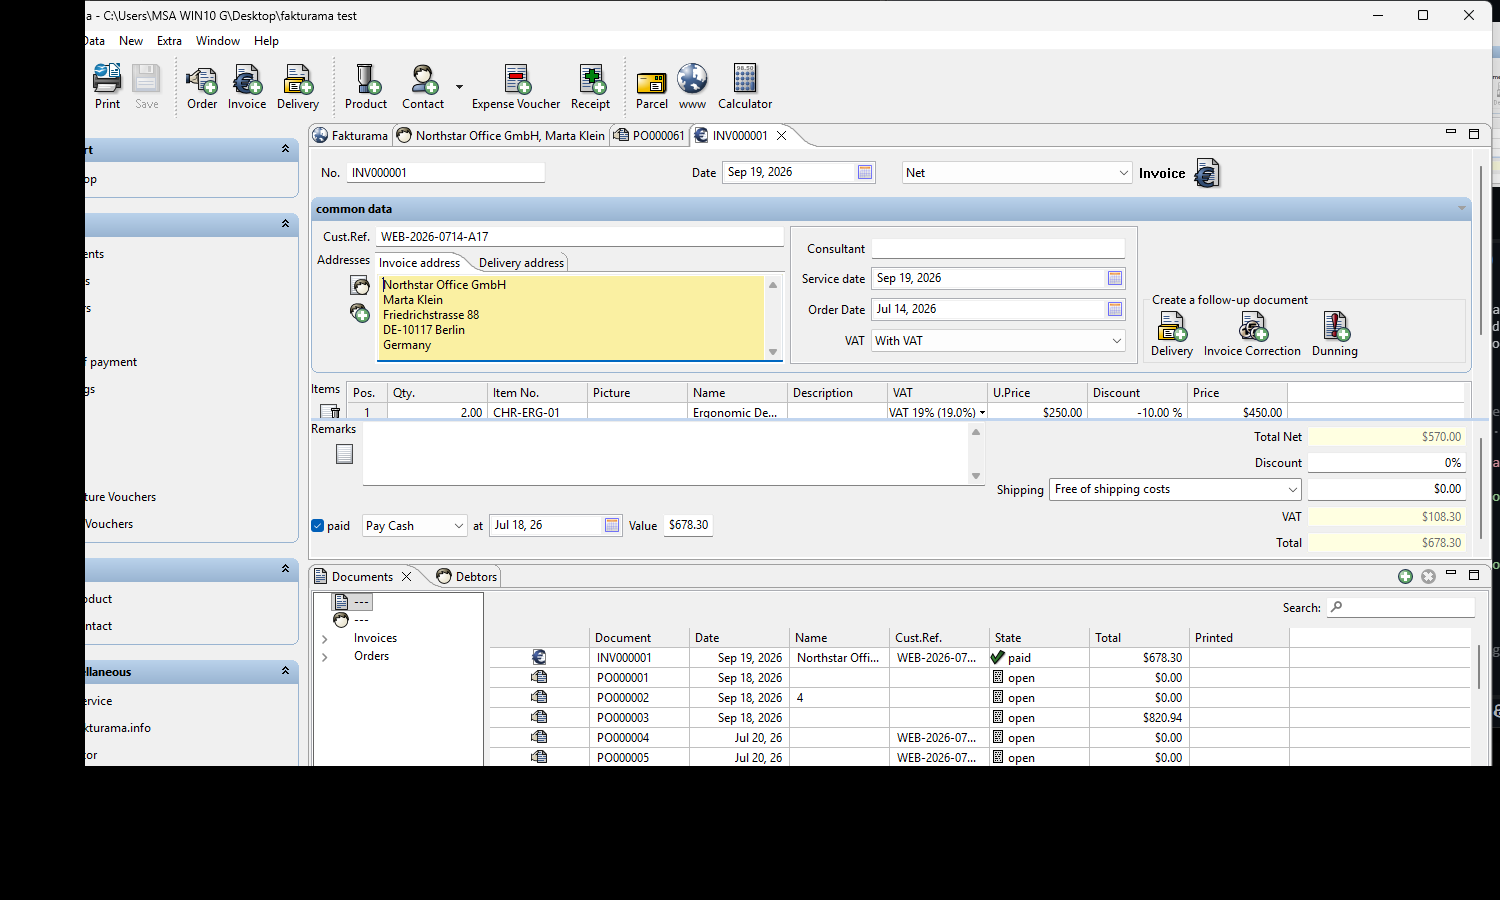
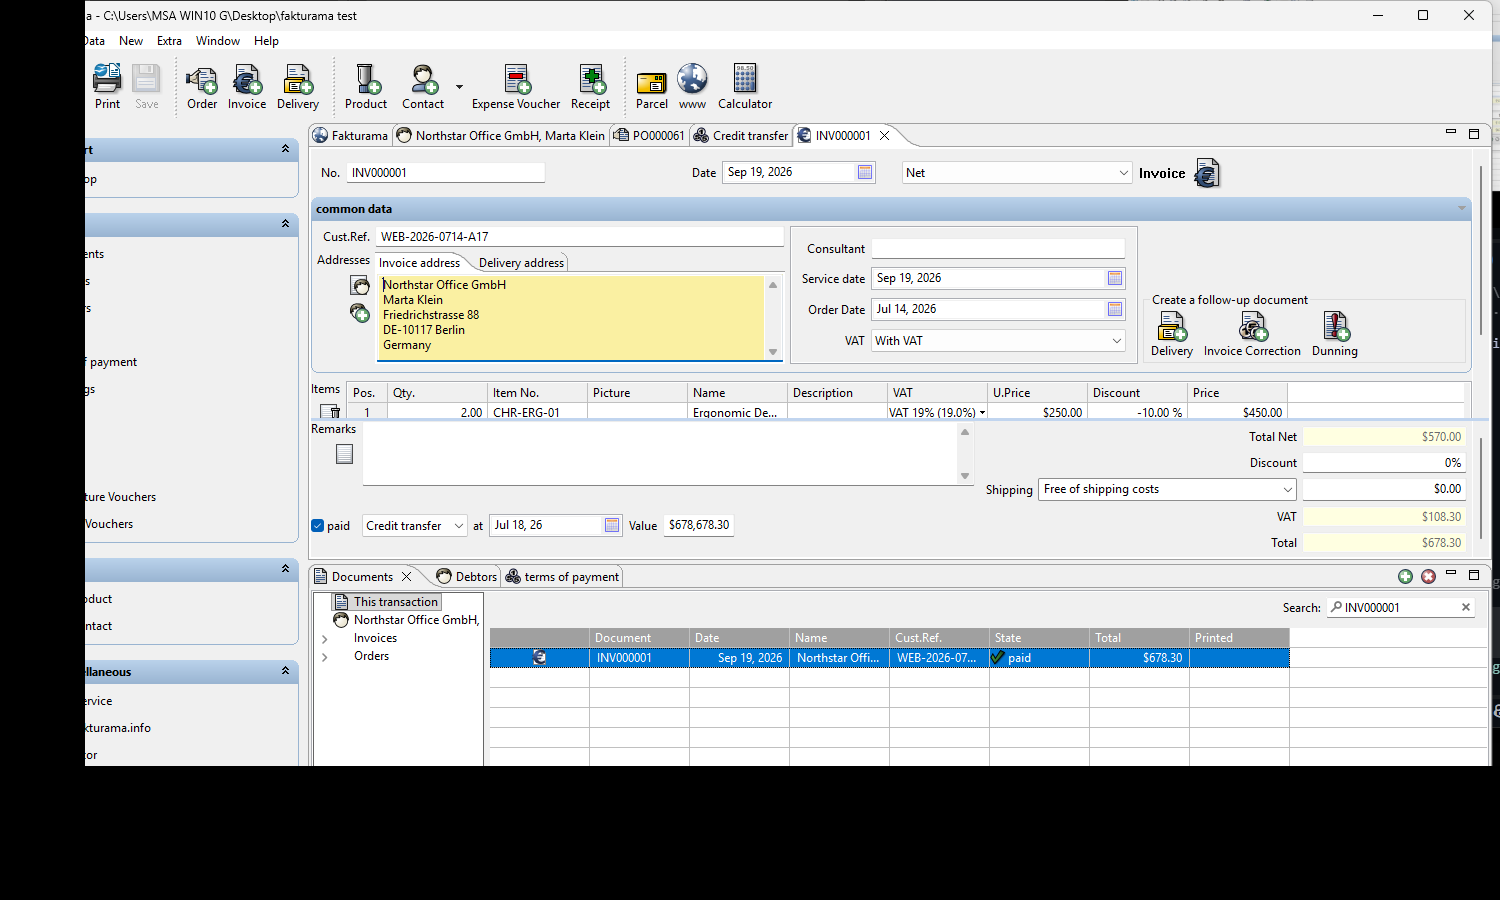
fix: apply mapped payment method to invoice

diff --git a/src/fakturama_automation/automation/documents.py b/src/fakturama_automation/automation/documents.py
@@ -21,7 +21,7 @@ from fakturama_automation.automation.app import (
     wait_until,
 )
 from fakturama_automation.domain.models import OrderInput
-from fakturama_automation.domain.rules import MONEY_QUANTUM, line_total
+from fakturama_automation.domain.rules import MONEY_QUANTUM, line_total, payment_code
 
 
 @dataclass(frozen=True)
@@ -219,6 +219,29 @@ def _select_vat_mode(root: Any) -> None:
         )
 
 
+def _select_invoice_payment_method(root: Any, expected: str) -> None:
+    value_control = _control(root, "Value")
+    value_rect = value_control.element_info.rectangle
+    candidates = [
+        combo
+        for combo in root.descendants(control_type="ComboBox")
+        if not _safe_name(combo)
+        and _visible(combo)
+        and combo.element_info.rectangle.top < value_rect.bottom
+        and combo.element_info.rectangle.bottom > value_rect.top
+    ]
+    if len(candidates) != 1:
+        raise _automation_failure(
+            f"Expected one Invoice payment-method selector, found {len(candidates)}"
+        )
+    candidates[0].select(expected)
+    actual = " ".join(_selected_control_value(candidates[0]).split())
+    if actual.casefold() != expected.casefold():
+        raise _automation_failure(
+            f"Invoice payment-method read-back mismatch: expected {expected!r}, got {actual!r}"
+        )
+
+
 def populate_order_header(order_view: OrderView, order: OrderInput) -> None:
     root = order_view.root
     _set_order_date(root, order.order_date)
@@ -335,6 +358,7 @@ def create_linked_invoice(app: FakturamaApp, persisted_order: PersistedOrder) ->
 
 def complete_and_verify_invoice(app: FakturamaApp, order: OrderInput) -> PersistedInvoice:
     root = app.window
+    _select_invoice_payment_method(root, payment_code(order.payment.method))
     paid = order.payment.status == "PAID"
     if paid:
         if order.payment.payment_date is None:

diff --git a/tests/unit/test_documents.py b/tests/unit/test_documents.py
@@ -1,6 +1,10 @@
 from types import SimpleNamespace
 
-from fakturama_automation.automation.documents import _invoke_named, _select_net_price_mode
+from fakturama_automation.automation.documents import (
+    _invoke_named,
+    _select_invoice_payment_method,
+    _select_net_price_mode,
+)
 
 
 class _FakeCombo:
@@ -42,6 +46,49 @@ def test_select_net_price_mode_uses_header_combo_when_radio_missing() -> None:
     combo = _FakeCombo("Gross")
     _select_net_price_mode(_FakeRoot(combo))
     assert combo.value == "Net"
+
+
+class _FakeValueEdit:
+    def __init__(self) -> None:
+        self.element_info = SimpleNamespace(
+            name="Value",
+            control_type="Edit",
+            class_name="Edit",
+            rectangle=SimpleNamespace(top=100, bottom=120),
+        )
+
+    def is_visible(self) -> bool:
+        return True
+
+    def is_enabled(self) -> bool:
+        return True
+
+
+class _FakePaymentCombo(_FakeCombo):
+    def __init__(self) -> None:
+        super().__init__("Pay Cash")
+        self.element_info.rectangle = SimpleNamespace(top=100, bottom=120)
+
+
+class _FakeInvoiceRoot:
+    def __init__(self) -> None:
+        self.value_edit = _FakeValueEdit()
+        self.payment_combo = _FakePaymentCombo()
+
+    def descendants(self, control_type: str):
+        if control_type == "Edit":
+            return [self.value_edit]
+        if control_type == "ComboBox":
+            return [self.payment_combo]
+        return []
+
+
+def test_select_invoice_payment_method_uses_mapped_combo_and_readback() -> None:
+    root = _FakeInvoiceRoot()
+
+    _select_invoice_payment_method(root, "Credit transfer")
+
+    assert root.payment_combo.value == "Credit transfer"
 
 
 class _FakeButton:
